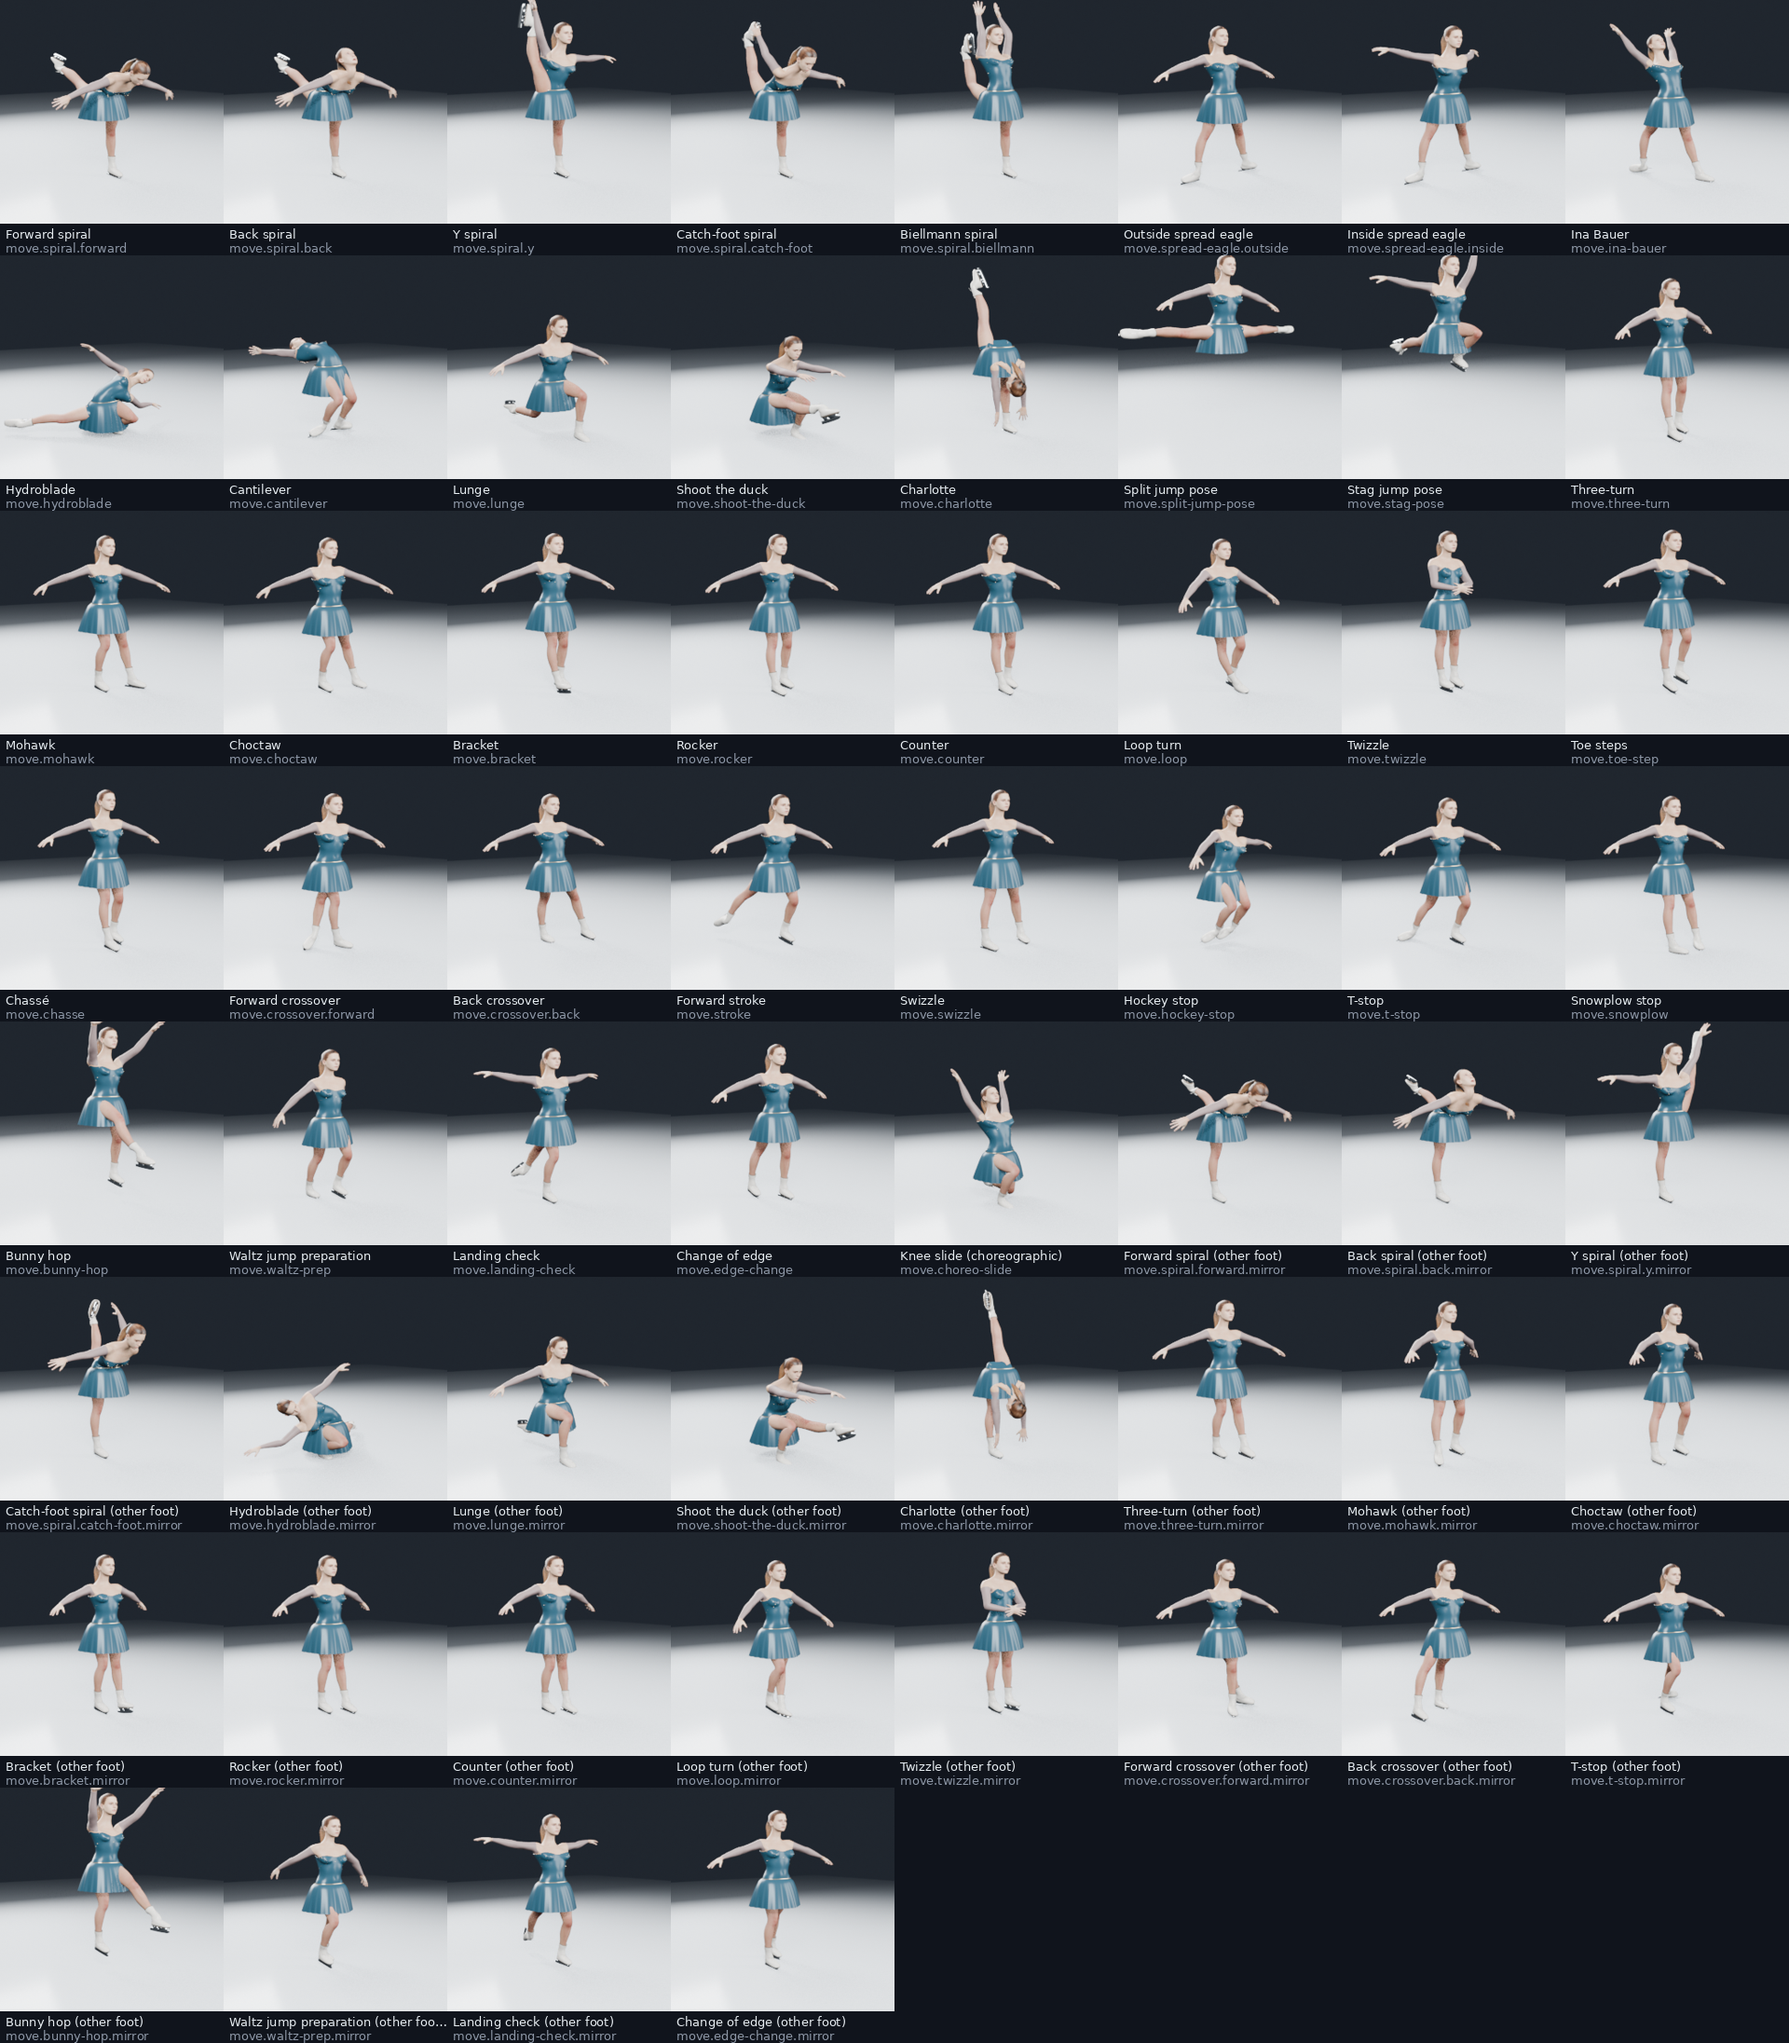
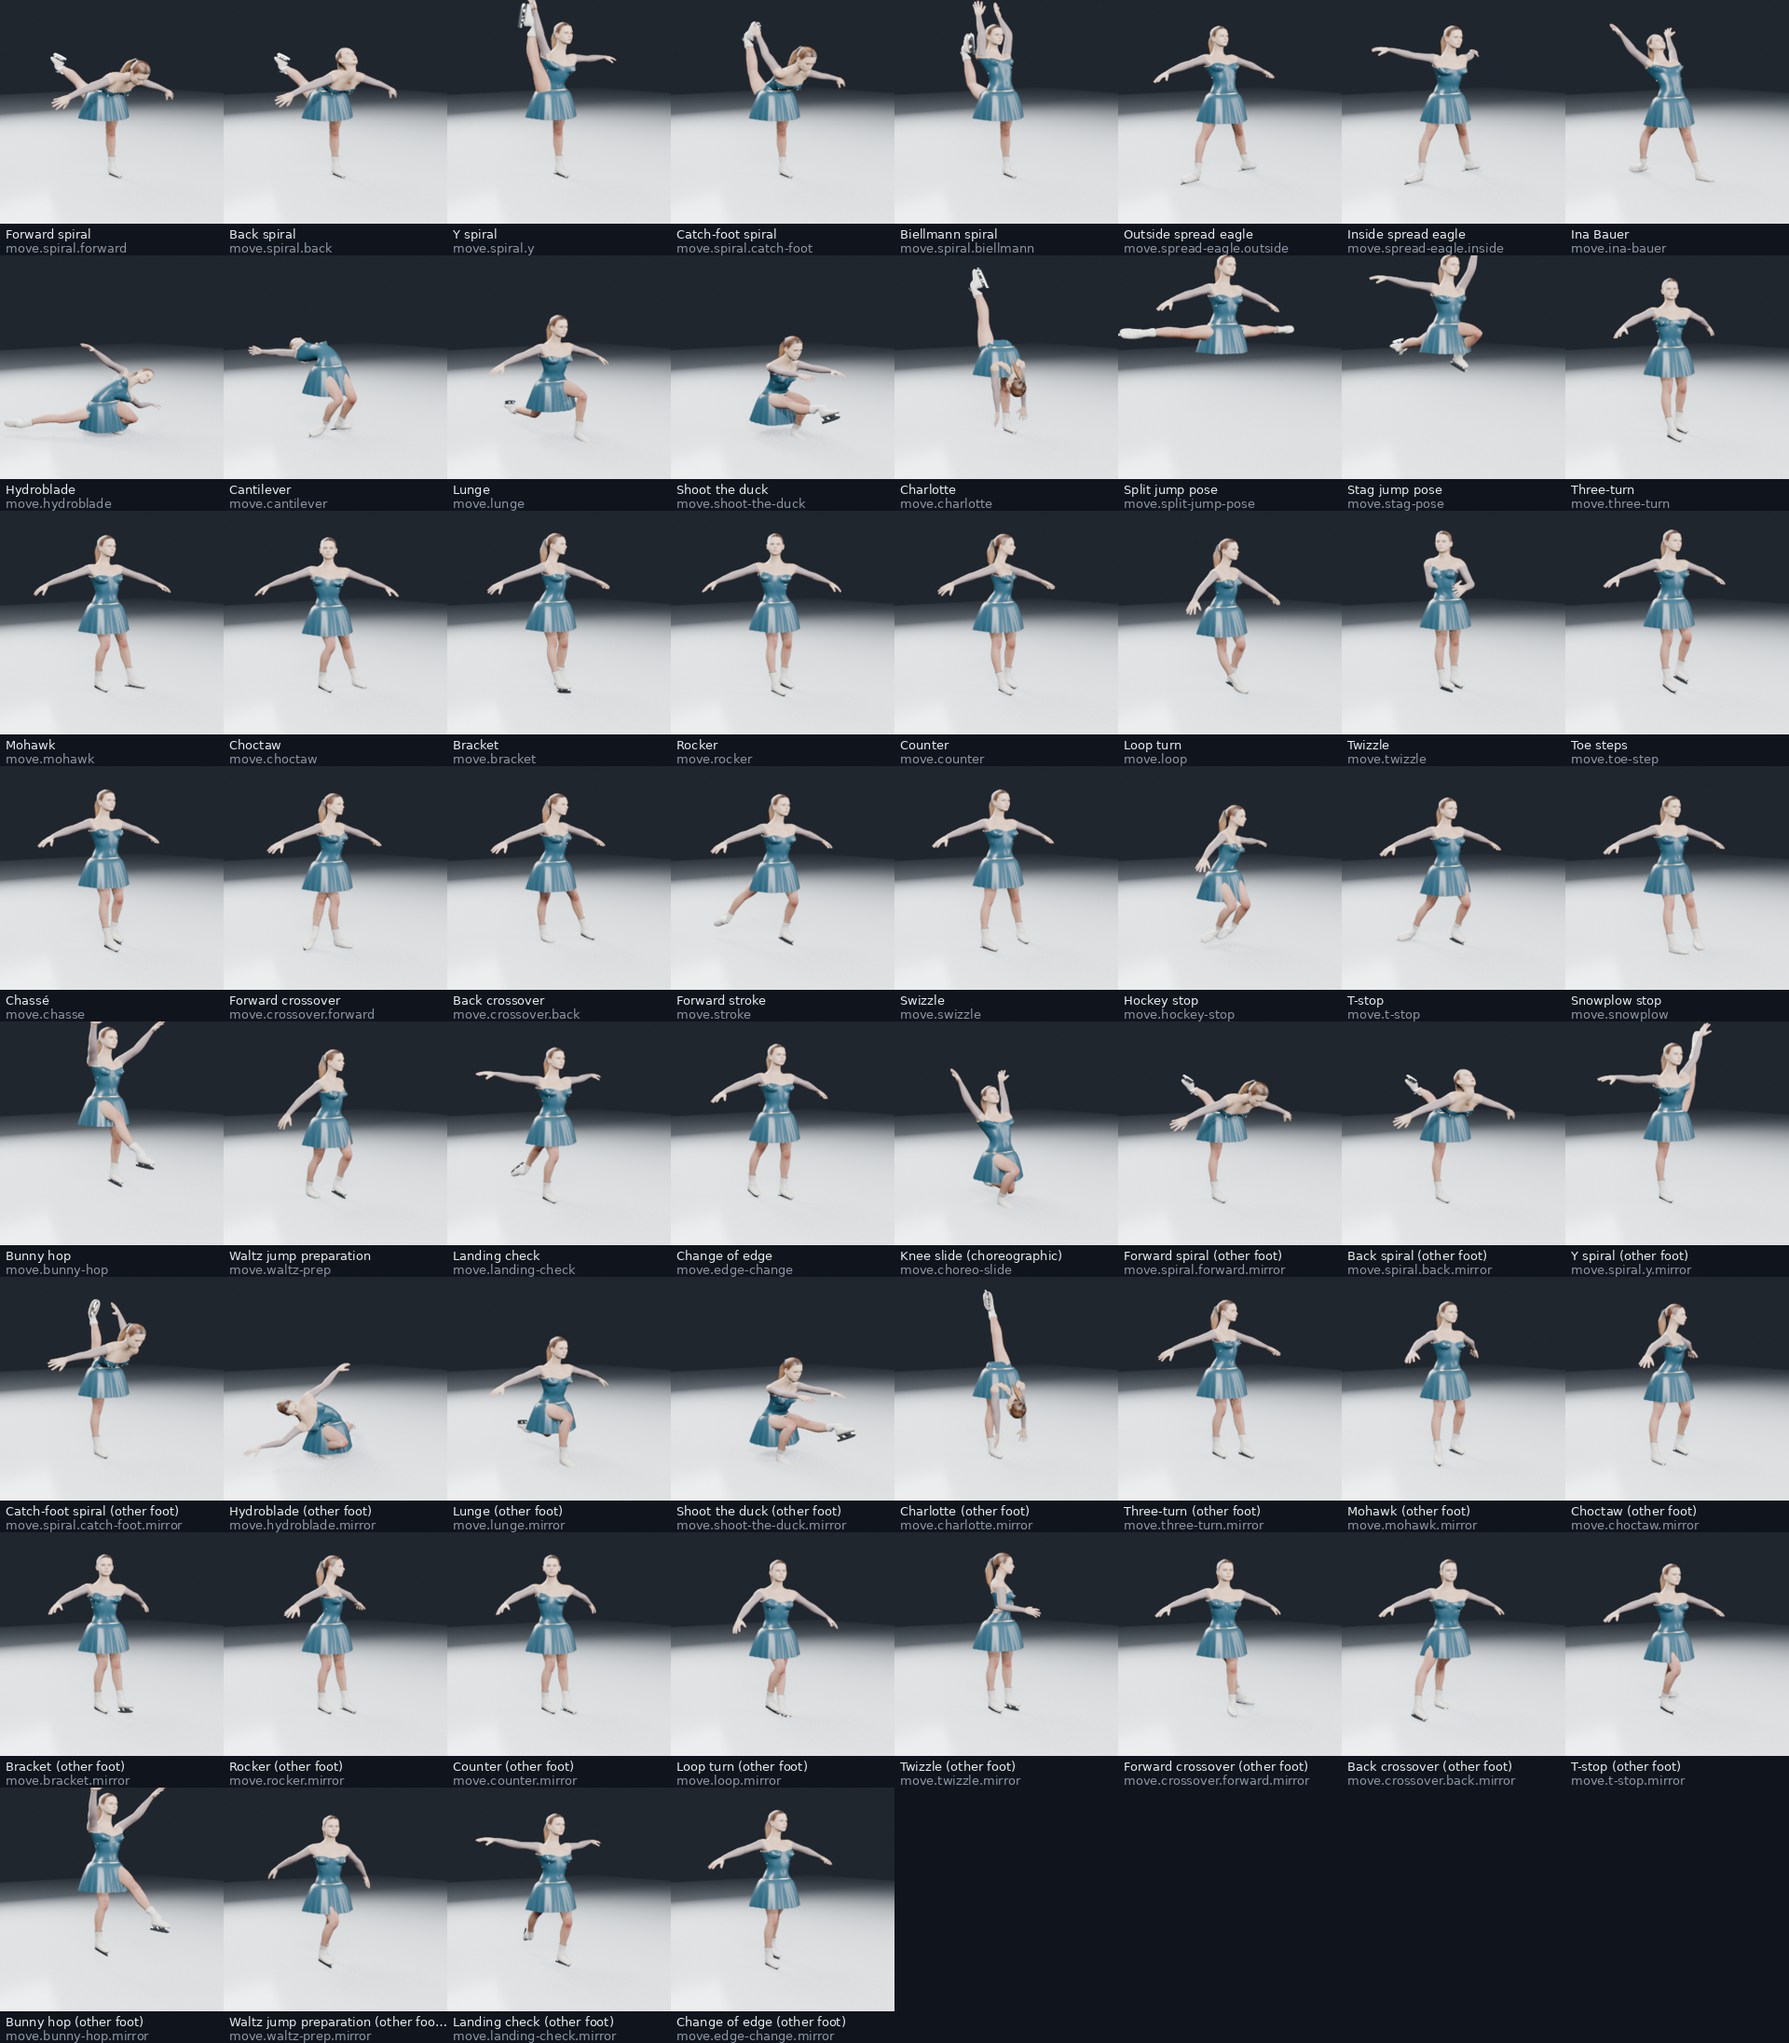
Motion: the shoulders twist against the hips
A pose gains `twist`: the shoulder line turned about the trunk against the hips, degrees,
positive taking her right shoulder back, limited to 60 either way. A direction could not say
it (a trunk turned about itself points the same way), so turns and épaulement read flat.
The turns' near-upright trunk bearings become the wind-up and check (past 90 degrees the body
has come round, which the sim's heading carries); the expressions' within 90 become their
twist (épaulement, the tango frame, the spiralling reach); leans back stay leans. Mirroring
negates it, blending eases it, joints() turns the shoulders by it, skater.gd rolls the spine
and places the arms by it, render_motion.py rolls the spine. Sheets re-rendered.

diff --git a/tools/ice-lab/game/motion/types.ts b/tools/ice-lab/game/motion/types.ts
@@ -33,7 +33,16 @@ export interface Pose {
   pelvisUp?: Vec3;
   /** Each segment's direction, from its root joint toward its far end (normalised on use). */
   seg?: Partial<Record<Segment, Vec3>>;
+  /**
+   * The shoulder line turned about the trunk against the hips, degrees, positive toward her
+   * right (her right shoulder back): a turn's wind-up and check, épaulement, a tango frame.
+   * A direction cannot say this (a trunk turned about itself points the same way). Omit for square.
+   */
+  twist?: number;
 }
+
+/** A shoulder line's reach against the hips, degrees each way. AUTHORED, from anatomy. */
+export const TWIST_LIMIT = 60;
 
 export type Ease = "linear" | "in" | "out" | "inOut" | "hold";
 export interface Key { t: number; pose: Pose; ease?: Ease }
@@ -99,6 +108,7 @@ export function mirrorPose(p: Pose): Pose {
     ...(p.pelvis !== undefined ? { pelvis: p.pelvis } : {}),
     ...(p.pelvisRight ? { pelvisRight: [p.pelvisRight[0], -p.pelvisRight[1], -p.pelvisRight[2]] as Vec3 } : {}),
     ...(p.pelvisUp ? { pelvisUp: flipX(p.pelvisUp) } : {}),
+    ...(p.twist !== undefined ? { twist: -p.twist } : {}),
     seg,
   };
 }
@@ -140,6 +150,8 @@ function blend(a: Pose, b: Pose, u: number): Pose {
   if (pelvis !== undefined) out.pelvis = pelvis;
   if (right) out.pelvisRight = right;
   if (up) out.pelvisUp = up;
+  const twist = num(a.twist, b.twist);
+  if (twist !== undefined) out.twist = twist;
   return out;
 }
 /**
@@ -173,7 +185,7 @@ export const DEFAULT_RIG: Rig = {
   upperArm: 0.29, forearm: 0.2074, thigh: 0.4105, shin: 0.3755, foot: 0.24, ankleHeight: 0.105,
 };
 /** The standing pose every clip's missing segments default to: upright, arms hanging a little away. */
-export const STAND: Required<Pose> = {
+export const STAND: Required<Omit<Pose, "twist">> = {
   pelvis: DEFAULT_RIG.thigh + DEFAULT_RIG.shin + DEFAULT_RIG.ankleHeight,
   pelvisRight: RIGHT, pelvisUp: UP,
   seg: {
@@ -201,7 +213,12 @@ export function joints(pose: Pose, rig: Rig = DEFAULT_RIG): Joints {
   const crown = add(neck, d("head"), rig.head);
   // The shoulders ride the trunk: across it along the pelvis's right axis, made square to the trunk.
   const t = d("trunk"), dot = right[0] * t[0] + right[1] * t[1] + right[2] * t[2];
-  const across = norm([right[0] - t[0] * dot, right[1] - t[1] * dot, right[2] - t[2] * dot]);
+  const square = norm([right[0] - t[0] * dot, right[1] - t[1] * dot, right[2] - t[2] * dot]);
+  // The twist turns the shoulder line about the trunk (Rodrigues; square is perpendicular to t).
+  // Negated: a positive twist takes her right shoulder back (+z), and +angle about up would bring it forward.
+  const tw = -Math.max(-TWIST_LIMIT, Math.min(TWIST_LIMIT, pose.twist ?? 0)) * RAD, ct = Math.cos(tw), st = Math.sin(tw);
+  const txs: Vec3 = [t[1] * square[2] - t[2] * square[1], t[2] * square[0] - t[0] * square[2], t[0] * square[1] - t[1] * square[0]];
+  const across = norm([square[0] * ct + txs[0] * st, square[1] * ct + txs[1] * st, square[2] * ct + txs[2] * st]);
   const shoulderL = add(add(chest, across, -rig.shoulderHalfWidth), t, -rig.shoulderDrop);
   const shoulderR = add(add(chest, across, rig.shoulderHalfWidth), t, -rig.shoulderDrop);
   const elbowL = add(shoulderL, d("upperArmL"), rig.upperArm), elbowR = add(shoulderR, d("upperArmR"), rig.upperArm);
@@ -252,6 +269,26 @@ export function onIce(pose: Pose, rig: Rig = DEFAULT_RIG): Pose {
     clamp(`forearm${side}`, elbow, rig.forearm, 0.02);
   }
   return { ...pose, seg: out };
+}
+
+/**
+ * A near-upright trunk written with a bearing (dir(b, e), e >= 80) read as what it meant: the
+ * shoulders turned against the hips. Within 90 degrees the bearing is the twist; past it (only
+ * when `throughTurn`: a turn's body has come round, which the sim's heading carries) the rest
+ * of the half turn is. Clamped to TWIST_LIMIT. A lean back (dir(180, 85)) stays a lean otherwise.
+ */
+export function trunkAsTwist(c: Clip, throughTurn: boolean): Clip {
+  const keys = c.keys.map(k => {
+    const t = k.pose.seg?.trunk;
+    if (!t || k.pose.twist !== undefined) return k;
+    const n = norm(t), e = Math.asin(n[1]) / RAD;
+    if (e < 80) return k;
+    let b = Math.atan2(n[0], -n[2]) / RAD;
+    if (Math.abs(b) < 1) return k;
+    if (Math.abs(b) > 90) { if (!throughTurn) return k; b = b > 0 ? b - 180 : b + 180; }
+    return { ...k, pose: { ...k.pose, twist: Math.max(-TWIST_LIMIT, Math.min(TWIST_LIMIT, b)), seg: { ...k.pose.seg, trunk: dir(0, e) } } };
+  });
+  return { ...c, keys };
 }
 
 /** A clip from keys, with its duration taken from the last key unless given; every key settled onIce. */

diff --git a/tools/ice-lab/game/motion/transitions.ts b/tools/ice-lab/game/motion/transitions.ts
@@ -7,7 +7,7 @@
 // Written skating on the left foot where it matters (free leg the right); each one-sided move has
 // its mirror. AUTHORED shapes and timings, judged by eye.
 
-import { clip, dir, mirrorClip, DOWN, UP } from "./types.ts";
+import { clip, dir, mirrorClip, trunkAsTwist, DOWN, UP } from "./types.ts";
 import type { Clip, Key, Pose, Segment, Vec3 } from "./types.ts";
 
 type Segs = Partial<Record<Segment, Vec3>>;
@@ -172,8 +172,12 @@ const turnsLeft: Clip[] = [
 
 const ONE_SIDED = new Set(["move.three-turn", "move.mohawk", "move.choctaw", "move.bracket", "move.rocker", "move.counter", "move.loop", "move.twizzle", "move.crossover.forward", "move.crossover.back", "move.landing-check", "move.edge-change", "move.waltz-prep", "move.bunny-hop", "move.t-stop", "move.spiral.forward", "move.spiral.back", "move.spiral.y", "move.spiral.catch-foot", "move.lunge", "move.shoot-the-duck", "move.hydroblade", "move.charlotte"]);
 
+// The turns' near-upright trunk bearings are shoulder twist (wind-up and check); the body's own
+// rotation through a turn is the sim's heading. Field moves keep theirs (a lean is a lean).
+const turnsTwisted = turnsLeft.map(c => trunkAsTwist(c, true));
+
 export const LEGS: readonly Clip[] = [...freeLegLeft, ...freeLegLeft.map(c => mirrorClip(c, `${c.id}.mirror`, `${c.name} (other leg)`))];
 export const TRANSITIONS: readonly Clip[] = [
-  ...fieldLeft, ...turnsLeft,
-  ...[...fieldLeft, ...turnsLeft].filter(c => ONE_SIDED.has(c.id)).map(c => mirrorClip(c, `${c.id}.mirror`, `${c.name} (other foot)`)),
+  ...fieldLeft, ...turnsTwisted,
+  ...[...fieldLeft, ...turnsTwisted].filter(c => ONE_SIDED.has(c.id)).map(c => mirrorClip(c, `${c.id}.mirror`, `${c.name} (other foot)`)),
 ];

diff --git a/tools/ice-lab/game/motion/expressions.ts b/tools/ice-lab/game/motion/expressions.ts
@@ -10,7 +10,7 @@
 // What the arms do to the physics is game/armfocus.ts's and the sim's (arm carriage, armsL):
 // this is how they look, never what they cost. AUTHORED shapes, judged by eye.
 
-import { clip, dir, mirrorClip } from "./types.ts";
+import { clip, dir, mirrorClip, trunkAsTwist } from "./types.ts";
 import type { Clip, Pose, Segment, Vec3 } from "./types.ts";
 
 type Arms = Partial<Record<Segment, Vec3>>;
@@ -134,10 +134,12 @@ const phrasesLeft: Clip[] = [
 ];
 
 /** Every expression: the holds, the carriages, the phrases and their mirrors (one-sided ones only). */
-export const EXPRESSIONS: readonly Clip[] = [
+// Épaulement, a tango frame, a spiralling reach: a near-upright trunk with a bearing is the
+// shoulders turned against the hips (game/motion/types.ts trunkAsTwist); a lean back stays a lean.
+export const EXPRESSIONS: readonly Clip[] = ([
   ...holds, ...carriage, ...phrasesLeft,
   ...phrasesLeft.filter(c => ["expr.phrase.spiral-reach", "expr.phrase.tango-frame", "expr.phrase.fosse", "expr.phrase.flamenco-desplante", "expr.phrase.salute", "expr.phrase.cha-cha-hips"].includes(c.id))
     .map(c => mirrorClip(c, `${c.id}.mirror`, `${c.name} (other side)`)),
   ...(["third", "fourthEnHaut", "arabesque1", "arabesque2", "attitudeArms", "oneHandHip", "reachUpOne"] as const)
     .map(k => mirrorClip(holds.find(h => h.id === `expr.hold.${k}`)!, `expr.hold.${k}.mirror`, `${HOLD_NAMES[k]} (other side)`)),
-];
+] as Clip[]).map(c => trunkAsTwist(c, false));

diff --git a/tools/ice-lab/test/motion.test.ts b/tools/ice-lab/test/motion.test.ts
@@ -149,3 +149,19 @@ test("a straight fall's other-shoulder twin is a different fall, not the same on
     assert.ok(apart > 0.1, `${f.id}: ${apart.toFixed(3)} m apart at most`);
   }
 });
+
+test("the shoulders twist against the hips: a three-turn winds, turns and checks; épaulement turns the shoulders, not the body", () => {
+  const three = CLIP_BY_ID.get("move.three-turn")!;
+  const tw = three.keys.map(k => k.pose.twist ?? 0);
+  assert.ok(tw[0] < -20 && tw[1] > 20, `wind-up then turn: ${tw.join()}`);
+  assert.ok(tw.every(t => Math.abs(t) <= 60));
+  const square = joints({ pelvis: 0.89, seg: {} }), turned = joints({ pelvis: 0.89, seg: {}, twist: 40 });
+  assert.ok(turned.shoulderR[2] > square.shoulderR[2] + 0.05, "positive twist takes her right shoulder back");
+  assert.ok(turned.shoulderL[2] < square.shoulderL[2] - 0.05, "and her left forward");
+  assert.deepEqual([turned.hipL, turned.hipR], [square.hipL, square.hipR], "the hips stay square");
+  const ep = CLIP_BY_ID.get("expr.carriage.epaulement")!.keys[0].pose;
+  assert.ok(ep.twist !== undefined && ep.twist < 0, `épaulement twists: ${ep.twist}`);
+  assert.equal(CLIP_BY_ID.get("expr.carriage.proud")!.keys[0].pose.twist, undefined, "a lean back is not a twist");
+  const m = CLIP_BY_ID.get("move.three-turn.mirror")!;
+  assert.deepEqual(m.keys.map(k => k.pose.twist), tw.map(t => -t), "the mirror twists the other way");
+});

diff --git a/games/ice-run-godot/tools/render_motion.py b/games/ice-run-godot/tools/render_motion.py
@@ -93,6 +93,9 @@ def apply(pose):
         target = arm_dir(want)
         turn = cur.col[1].normalized().rotation_difference(target).to_matrix()
         new = turn @ cur
+        if name == 'Spine' and pose.get('twist'):
+            # game/motion twist: the shoulders turned about the trunk; the body-to-Blender map is a proper rotation, so the sign carries.
+            new = Matrix.Rotation(-math.radians(max(-60, min(60, pose['twist']))), 3, target) @ new
         head = pb.matrix.translation.copy()
         if name == 'Hips' and 'pelvis' in pose:
             head = rig.matrix_world.inverted() @ Vector((0, 0, pose['pelvis']))
